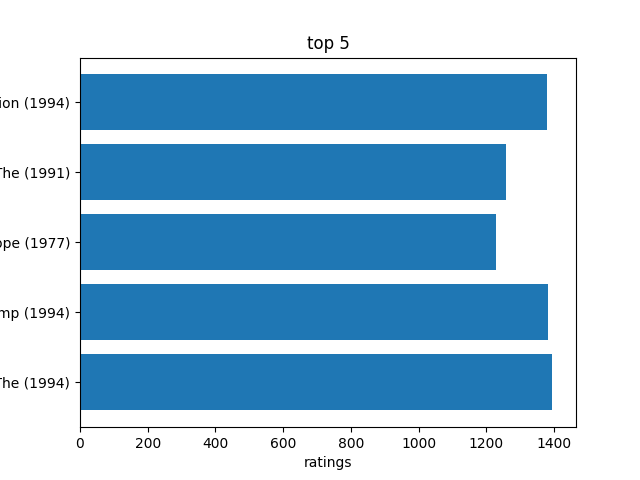
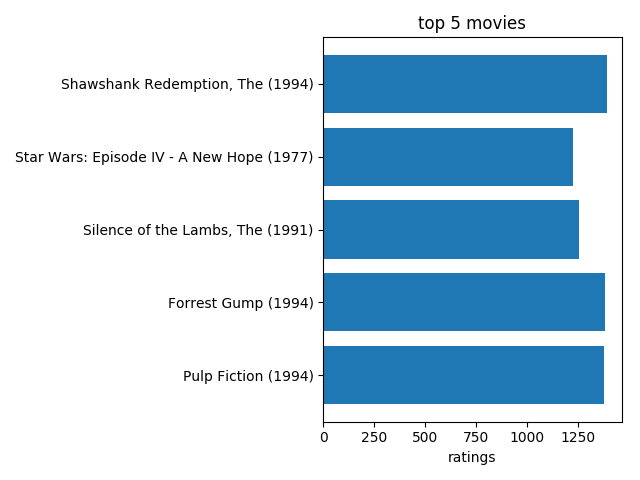
Se arreglo el texto

diff --git a/movie.py b/movie.py
@@ -196,15 +196,18 @@ name5 = movies5_name
 pos = np.arange(5)+.5
 
 plt.plot(values5)
-plt.xlabel(movies5_name, fontsize = 8)
+plt.xticks(pos,(name5), fontsize= 5)
+#plt.xlabel(movies5_name, fontsize = 8)
 plt.title("Top 5 movies")
+plt.tight_layout()
 plt.show()
 
 
 principal = plt.barh(pos,values5, align='center')
 plt.yticks(pos, (name5))
 plt.xlabel('ratings')
-plt.title('top 5')
+plt.title('top 5 movies')
+plt.tight_layout()
 plt.show()
 
 
